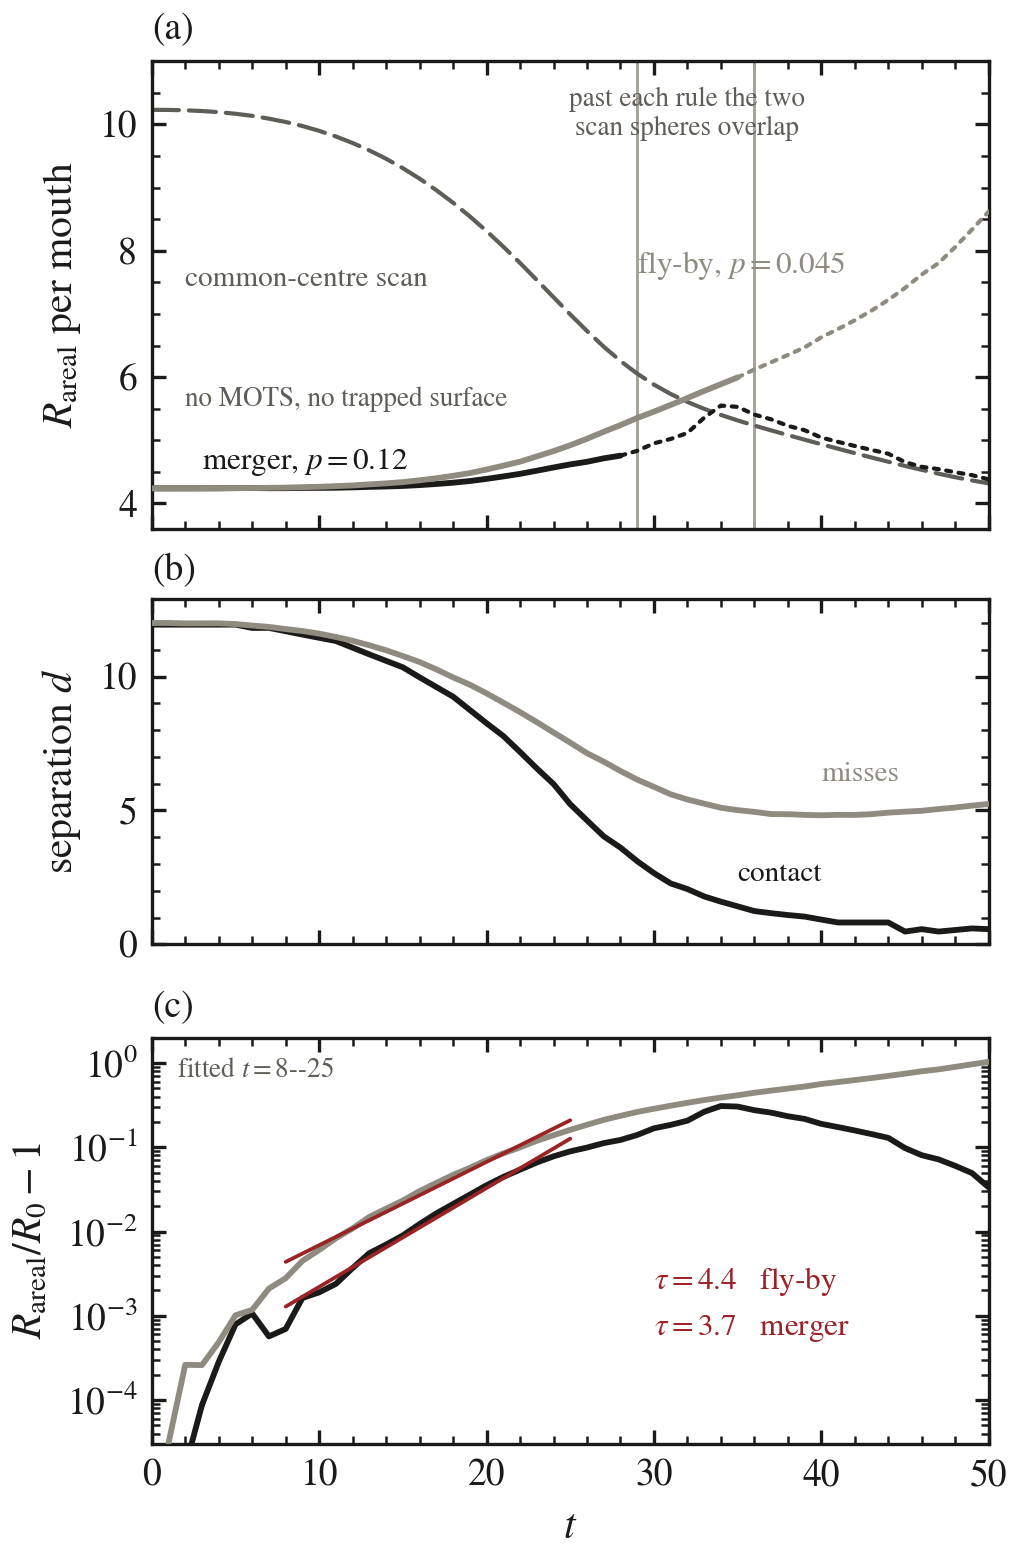
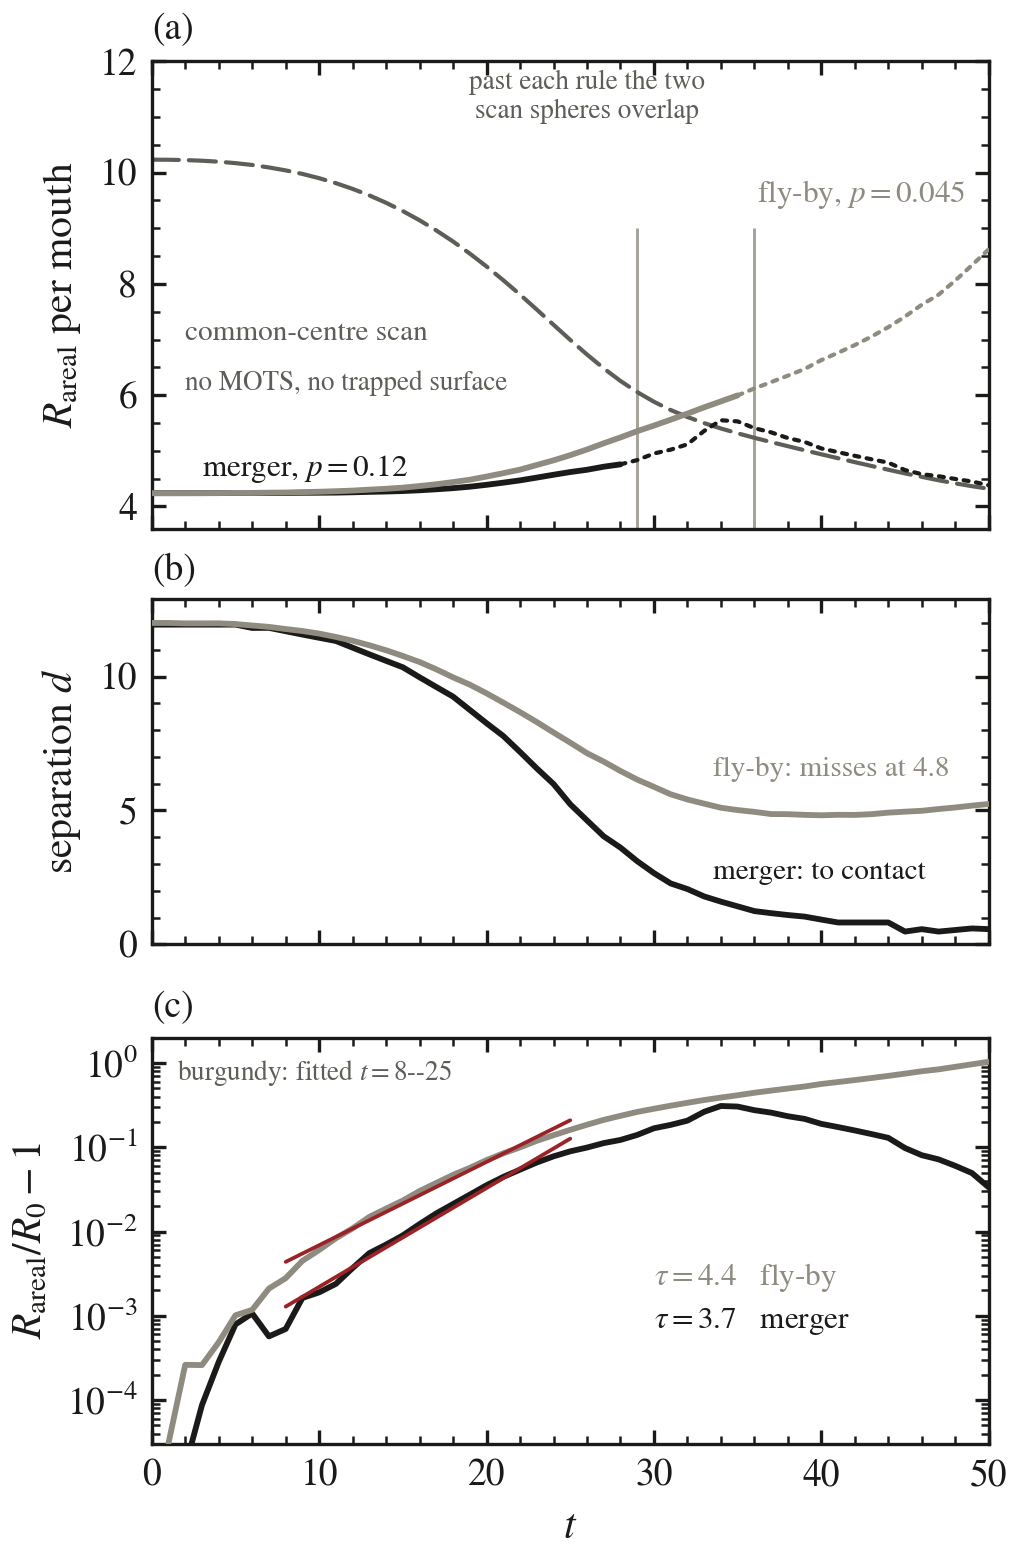
viz(merger): the mouth-growth page stops colliding with itself -- rules clipped below the labels, and each tau wears its own arm's colour
Three fixes the printed page asked for. The two vertical rules ran the full
height of panel (a) and cut through both notes that exist to explain them,
including the fly-by's name; they now stop at R = 9 and the ceiling goes to
12, which gives those two labels a band of their own instead of a wedge
between curves. In panel (c) both fitted exponentials are burgundy -- that
is what burgundy means here, "this is the fit" -- so burgundy labels said
which quantity they were and not which arm; each tau now wears its arm's
own ink or grey, and the note names the accent instead. Panel (b)'s bare
verdicts "contact" and "misses" become "merger: to contact" and "fly-by:
misses at 4.8", so the panel reads without reference to panel (a).

diff --git a/grteclyn-wrapper/src/grteclyn_wrapper/visualisation/wormhole_merger/plot_mouth_growth.py b/grteclyn-wrapper/src/grteclyn_wrapper/visualisation/wormhole_merger/plot_mouth_growth.py
@@ -61,6 +61,7 @@ FLYBY = ("06_binary_flyby/p045/merge_orbit_flip_d12_p045_L128_lvl5_t100",
          r"fly-by, $p=0.045$")
 FIT = (8.0, 25.0)        # shared window: both arms' scans are still disjoint
 T_MAX = 50.0             # the merger's record; the fly-by's own page runs to 100
+RULE_TOP = 9.0           # the rules stop below panel (a)'s label band
 
 
 def _scan(path: pathlib.Path):
@@ -119,23 +120,26 @@ def main(argv: list[str] | None = None) -> int:
         tail = slice(max(i - 1, 0), int(k.sum()))
         axA.plot(s["t"][tail], s["RA"][tail], color=col, linewidth=1.0,
                  linestyle=(0, (1.2, 1.8)), zorder=3)
-        axA.axvline(s["t"][i] if i < len(s["t"]) else T_MAX, color=style.FAINT,
-                    linewidth=0.7, zorder=1)
+        # The rules stop below the label band: a full-height axvline runs
+        # through the two notes that explain what the rules are for.
+        axA.vlines(s["t"][i] if i < len(s["t"]) else T_MAX, 3.6, RULE_TOP,
+                   color=style.FAINT, linewidth=0.7, zorder=1)
     kC = m["tC"] <= T_MAX
     axA.plot(m["tC"][kC], m["RC"][kC], color=style.MUTED, linewidth=1.0,
              linestyle=(0, (6.5, 2.4)), zorder=2)
     axA.set_ylabel(r"$R_{\rm areal}$ per mouth")
-    axA.set_ylim(3.6, 11.0)
-    # Everything is named inside the wedge between the common-centre curve
-    # (falling from 10.2) and the per-mouth curves (rising from 4.24), which
-    # is the only part of this frame with nothing drawn in it.
-    axA.text(2.0, 7.45, "common-centre scan", fontsize=7, color=style.MUTED)
-    axA.text(2.0, 5.55, "no MOTS, no trapped surface", fontsize=6.5,
+    # The ceiling is above the highest curve (the common-centre scan starts at
+    # 10.23) so that the two labels the data has no room for -- the rules' note
+    # and the fly-by's name -- get a band of their own instead of being wedged
+    # between curves.
+    axA.set_ylim(3.6, 12.0)
+    axA.text(2.0, 7.0, "common-centre scan", fontsize=7, color=style.MUTED)
+    axA.text(2.0, 6.1, "no MOTS, no trapped surface", fontsize=6.5,
              color=style.MUTED)
     axA.text(3.0, 4.55, MERGER[1], fontsize=7.5, color=style.INK)
-    axA.text(29.0, 7.5, FLYBY[1], fontsize=7.5, color=style.CONTEXT,
-             ha="left", va="bottom")
-    axA.text(32.0, 10.6, "past each rule the two\nscan spheres overlap",
+    axA.text(48.6, 9.9, FLYBY[1], fontsize=7.5, color=style.CONTEXT,
+             ha="right", va="top")
+    axA.text(26.0, 11.85, "past each rule the two\nscan spheres overlap",
              fontsize=6.5, color=style.MUTED, ha="center", va="top")
 
     # ---- (b) and meanwhile, what the orbit did ----------------------------
@@ -144,8 +148,11 @@ def main(argv: list[str] | None = None) -> int:
         axB.plot(s["t"][k], s["sep"][k], color=col, linewidth=1.4, zorder=3)
     axB.set_ylabel(r"separation $d$")
     axB.set_ylim(0.0, 12.9)
-    axB.text(35.0, 2.35, "contact", fontsize=7, color=style.INK)
-    axB.text(40.0, 6.1, "misses", fontsize=7, color=style.CONTEXT)
+    # Named so the panel reads without panel (a): each label says which arm
+    # and what its orbit did, rather than a bare verdict.
+    axB.text(33.5, 2.45, "merger: to contact", fontsize=7, color=style.INK)
+    axB.text(33.5, 6.3, f"fly-by: misses at {f['sep'].min():.1f}", fontsize=7,
+             color=style.CONTEXT)
 
     # ---- (c) the clock itself ---------------------------------------------
     for s, ex, col, tau in ((m, ex_m, style.INK, tau_m),
@@ -162,12 +169,15 @@ def main(argv: list[str] | None = None) -> int:
     axC.set_ylabel(r"$R_{\rm areal}/R_0 - 1$")
     axC.set_xlabel(r"$t$")
     # The two fits are within a factor 1.2 of each other, so their labels
-    # cannot sit on the lines; they go together in the empty lower right,
-    # each naming its arm, which is the comparison the panel exists for.
-    axC.text(30.0, 4.0e-3, rf"$\tau={tau_f:.1f}$   fly-by" "\n"
-             rf"$\tau={tau_m:.1f}$   merger", fontsize=7.5,
-             color=style.BURGUNDY, ha="left", va="top", linespacing=1.7)
-    axC.text(0.03, 0.95, rf"fitted $t={FIT[0]:g}$--${FIT[1]:g}$",
+    # cannot sit on the lines; they go together in the empty lower right.
+    # Each label wears ITS ARM'S colour, not the accent: both fitted lines are
+    # burgundy (that is what burgundy means here, "this is the fit"), so a
+    # burgundy label would say which quantity it is and not which arm.
+    axC.text(30.0, 4.5e-3, rf"$\tau={tau_f:.1f}$   fly-by", fontsize=7.5,
+             color=style.CONTEXT, ha="left", va="top")
+    axC.text(30.0, 1.3e-3, rf"$\tau={tau_m:.1f}$   merger", fontsize=7.5,
+             color=style.INK, ha="left", va="top")
+    axC.text(0.03, 0.95, rf"burgundy: fitted $t={FIT[0]:g}$--${FIT[1]:g}$",
              transform=axC.transAxes, fontsize=6.5, color=style.MUTED,
              va="top")
 
